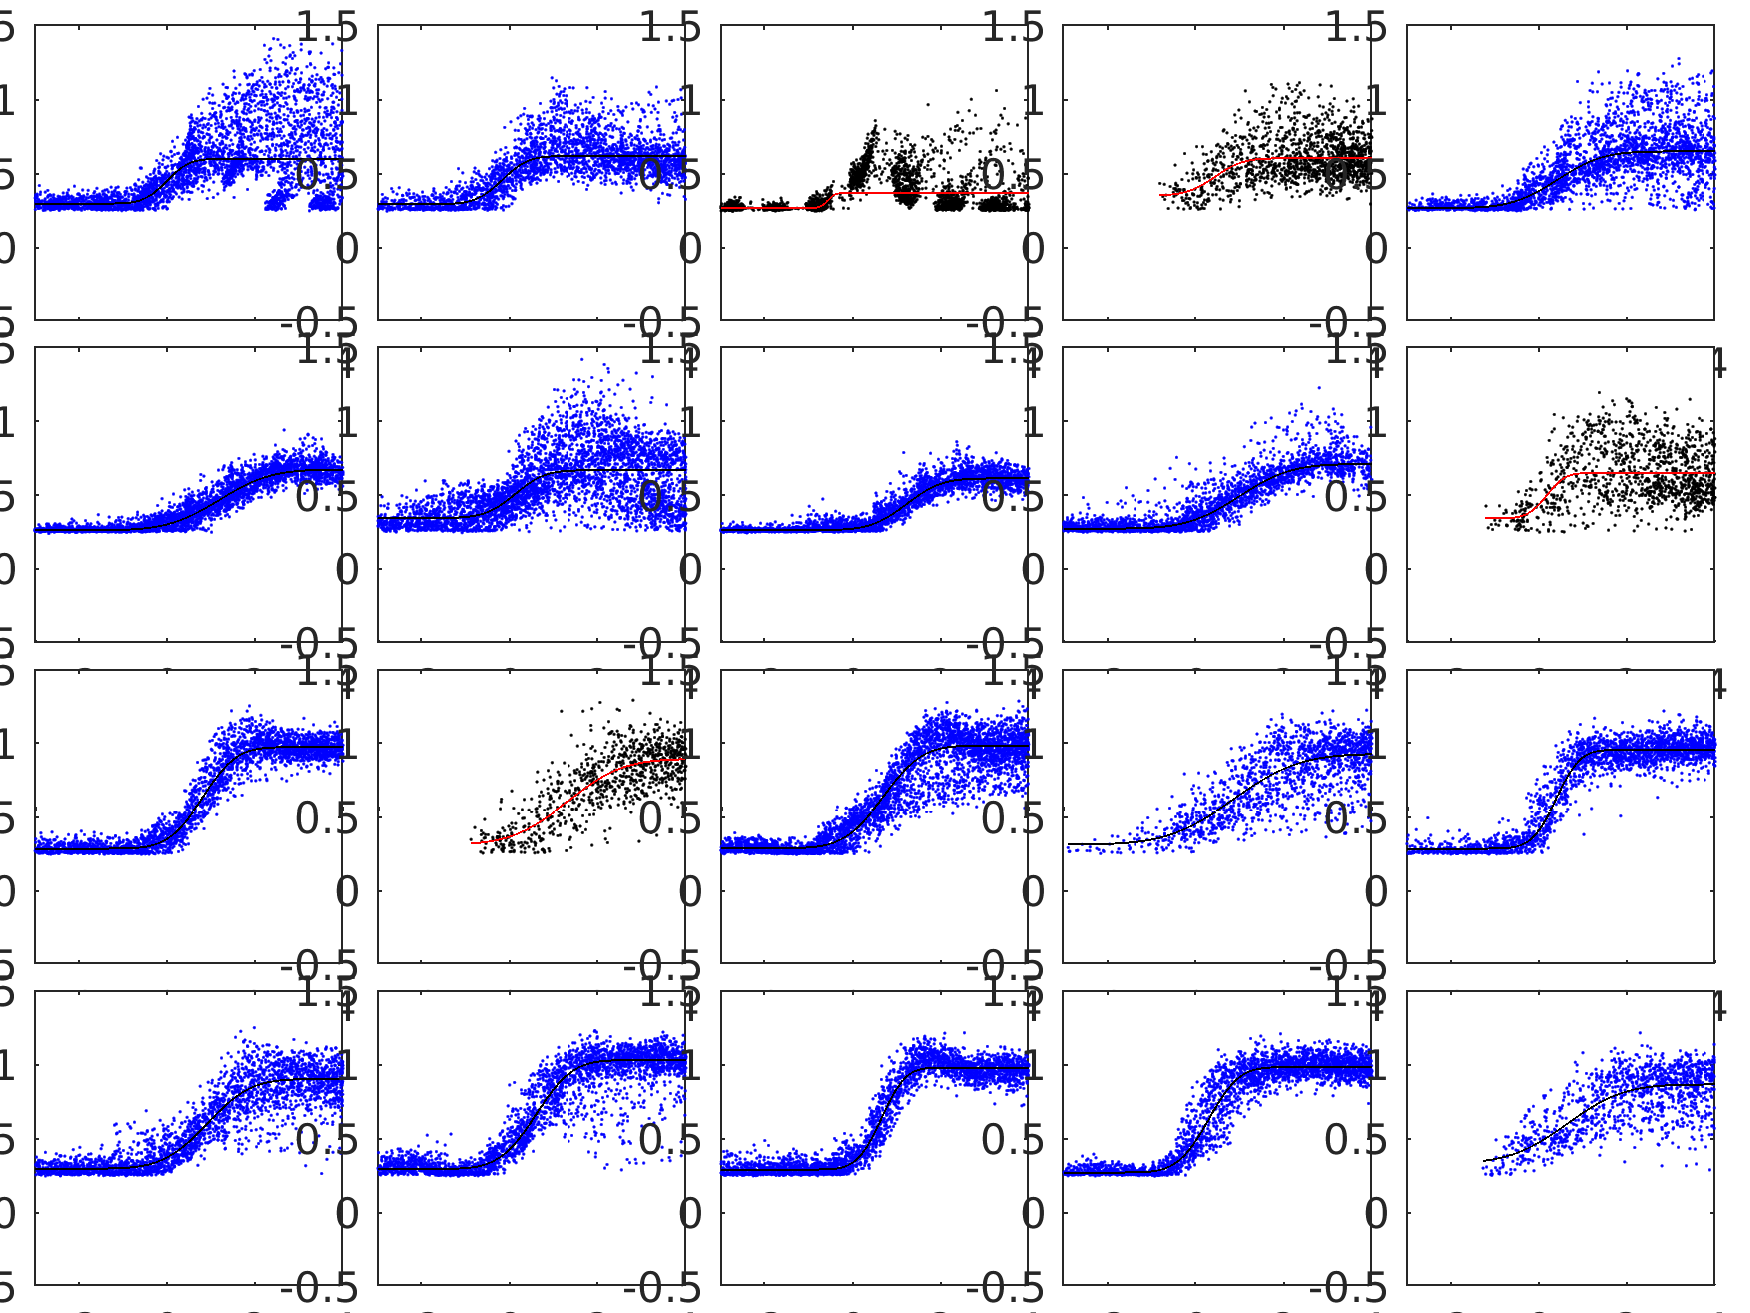
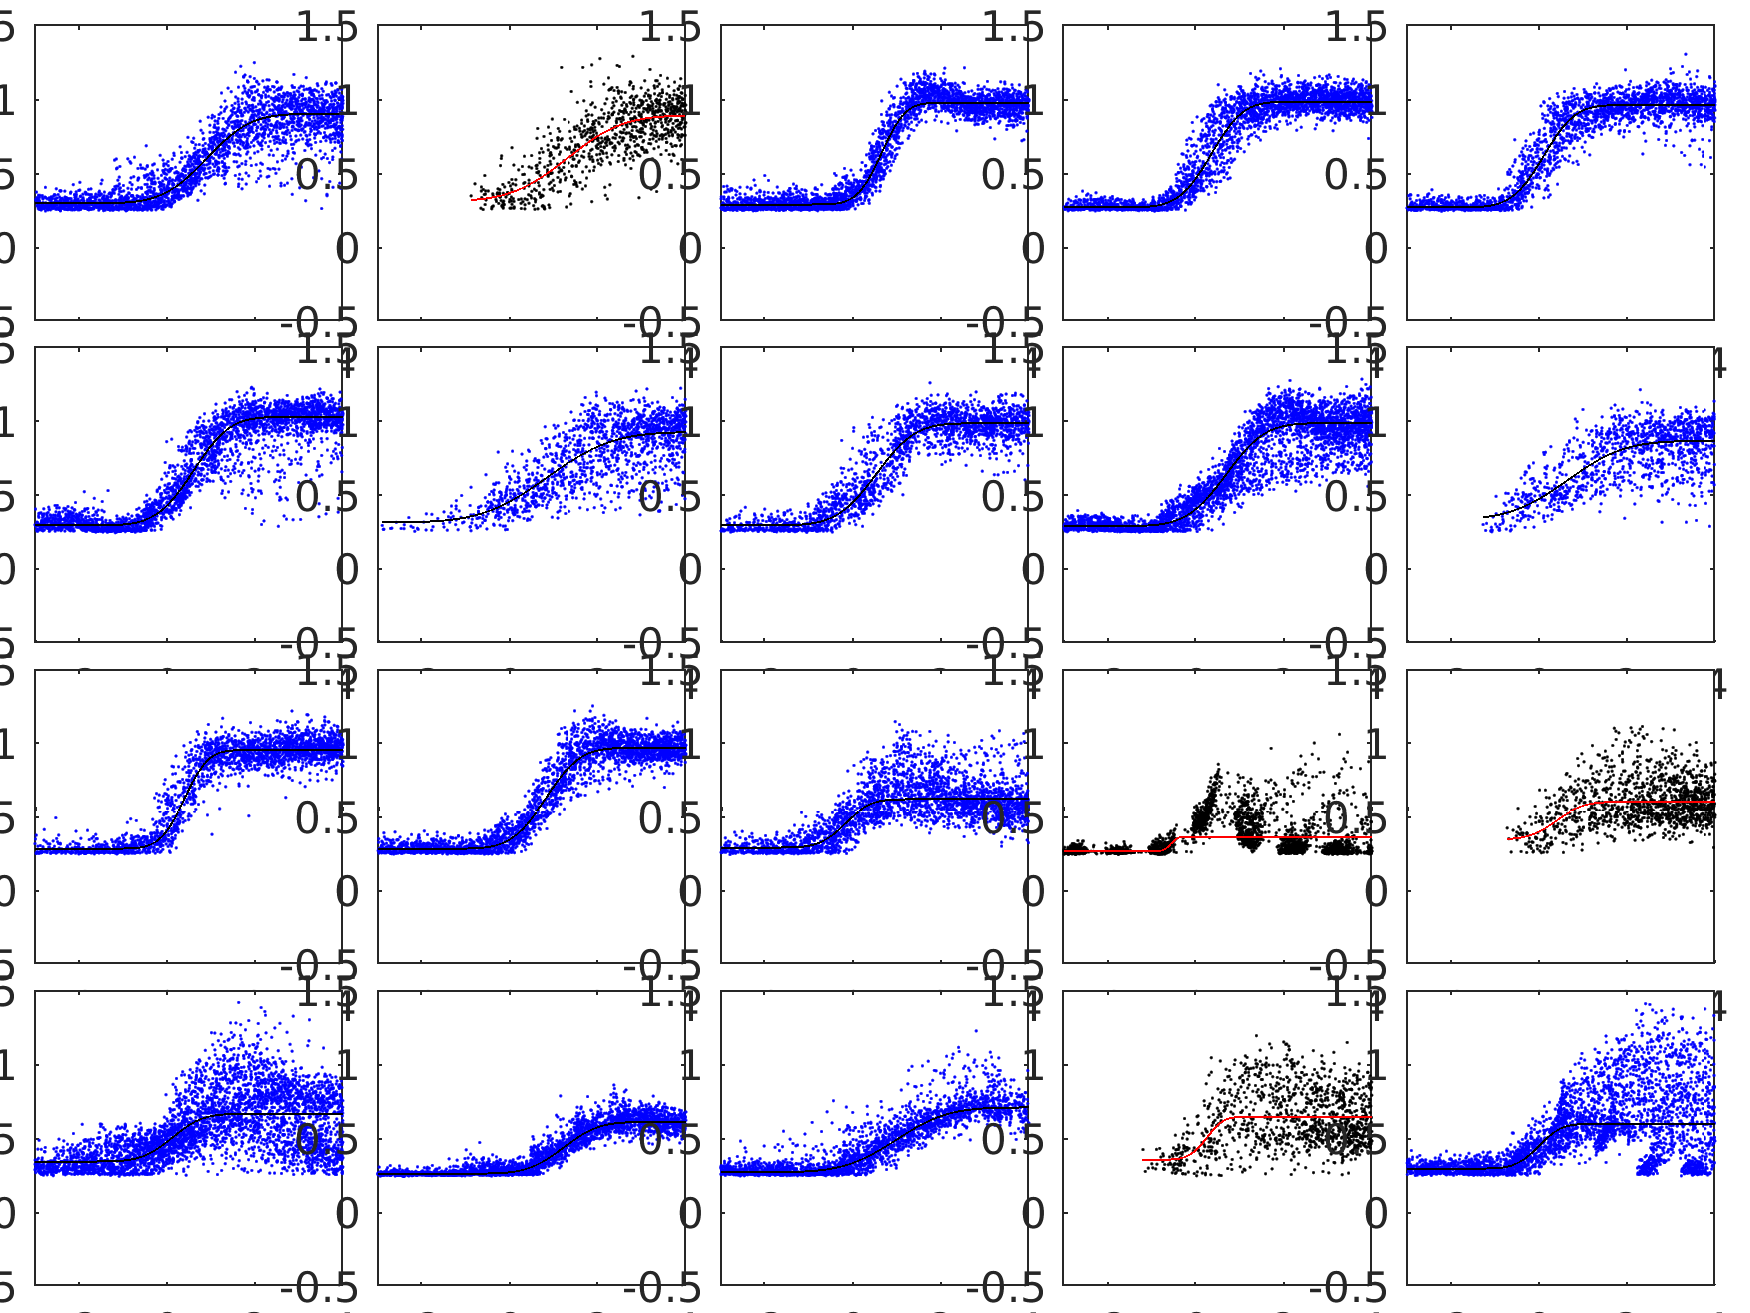
working sharpness code

diff --git a/sharpness/mainSharpnessFatNav.m b/sharpness/mainSharpnessFatNav.m
@@ -80,7 +80,7 @@ for ii=subj_ii
     getsigmaclusterFatNav(map_recon,data_recon,data_gt,pars,field_name,plotsavedir);
   % get motion parameters
   numcl(ii) = length(better_signed{ii});
-  mot_mean{ii} = getmotionFatNav(map_corrall.(fields{ii}).img,brd_crds{ii},MPos.(fields{ii}),voxRes);
+  mot_mean{ii} = getmotionFatNav(map_reconall.(fields{ii}).img,brd_crds{ii},MPos.(fields{ii}),voxRes);
 end
 
 %% compute and print statistics
